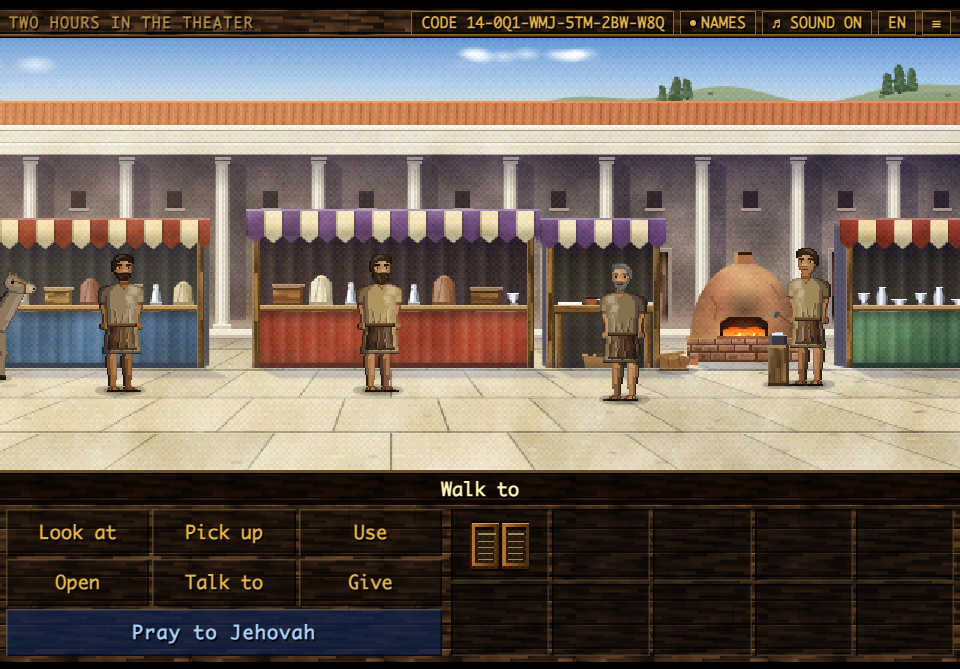
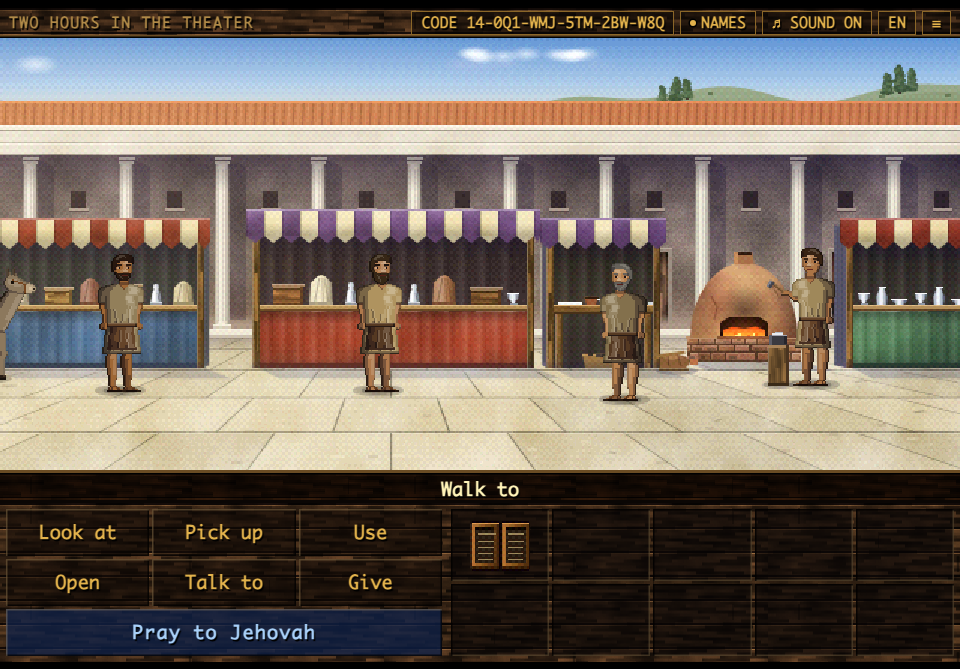
Chapter Fourteen: move the silversmith's arm as he hammers at the anvil

Changed region(s): [[0.7812, 0.3587, 0.875, 0.5979]]

diff --git a/levels/chapter14.js b/levels/chapter14.js
@@ -911,11 +911,13 @@ function columnSeal(g){const[cx,cy,rs]=SEAL.col,K=.55,Z=.83,C='#d6cec0',D='#6661
    block of iron on a short log, where the smith at the kiln works; and in the morning his hammer, held in the hand that hangs over the
    anvil: it rises and falls on the silver in quick strokes with pauses between them, as the sound of it (hammer14) does, though not in
    step with it. The hammer is drawn only while that smith stands at the anvil, facing it. */
-function marketDraw(g,t){const busy=!F.plea,[ax,ay]=ANVIL_Market,s=ACT.smith14c;
+function marketDraw(g,t){const busy=!F.plea,[ax,ay]=ANVIL_Market,s=ACT.smith14c,
+    work=busy&&s&&s.room==='market14'&&Math.abs(s.x-381.5)<1&&Math.abs(s.y-ay)<1&&!s.walk&&facing(s)===-1;
   beast(g,99,114,1,0,0,lightAt('market14',99,114));
   if(busy){const k=.5+.5*Math.sin(t/230)*Math.sin(t/570);pool(g,358,97,10,5,'#ff9040',.16+.14*k)}
   depth(ay-.2,()=>anvilMarket(g,ax,ay,busy));
-  if(busy&&s&&s.room==='market14'&&Math.abs(s.x-380)<1&&Math.abs(s.y-ay)<1&&!s.walk&&facing(s)===-1)depth(ay+.05,()=>hammerMarket(g,s.x,s.y,t))}
+  if(s)s.ges=0;
+  if(work){const[st,hit]=hammerStep(t);s.ges=6+st;depth(ay+.05,()=>hammerMarket(g,s.x,s.y,st,hit))}}
 /* anvilMarket: the anvil at x,y (its foot): a short log on end and on it a block of iron, its face lit, with a small piece of silver on it
    in the morning; in the late afternoon the hammer lies on it. */
 function anvilMarket(g,x,y,busy){oval(g,x,y-.4,5.4,1.4,'rgba(30,26,50,.3)');
@@ -923,17 +925,19 @@ function anvilMarket(g,x,y,busy){oval(g,x,y-.4,5.4,1.4,'rgba(30,26,50,.3)');
   R(g,x-3,y-17,6,3.4,'#3a3a40');R(g,x-3,y-17,6,.7,'#a4a4ae');R(g,x-3,y-17,1.2,3.4,'#5e5e68');R(g,x+2,y-16.3,1,2.7,'#26262c');
   if(busy){R(g,x-1.8,y-17.6,3.6,.6,'#e8ecf0');R(g,x-1.2,y-18,2.6,.4,'#b8c0c8')}
   else{R(g,x-2.8,y-18.6,2.8,1.6,'#44444c');R(g,x-2.8,y-18.6,2.8,.5,'#8a8a96');wood(g,x,y-17.9,5.4,.9,'#7a5a34')}}
-/* hammerMarket: the smith's hammer, in the hand at his side that hangs over the anvil (he stands at x,y, facing left). The handle comes
-   out of the front of his fist toward the anvil, and the head sits at its end with its face toward the anvil and nothing of the handle
-   beyond it: an L, never a cross. Each stroke: down on the silver, up in two steps, down again; a few strokes, then a pause. */
-const HAND_Market=[-6.3,-21.4];
-function hammerMarket(g,x,y,t){const P=1900,c=Math.floor(t/P),n=2+hash(c*7+3)%4,u=t%P,i=Math.floor(u/210),w=u%210;
-  const a=i<n?(w<50?-.45:w<85?0:w<165?.55:0):(u-n*210<140?0:-.45);
-  const hx=x+HAND_Market[0],hy=y+HAND_Market[1],L=5.6,ux=-Math.cos(a),uy=-Math.sin(a),ex=hx+ux*L,ey=hy+uy*L,nx=uy,ny=-ux,f=1.8,b=.6,hw=.85;
+/* hammerStep, hammerMarket: the smith's forearm and hammer over the anvil (he stands at x,y, facing left). His forearm pivots at the elbow
+   through three poses (s.ges 6 down, 7 midway, 8 raised), and the hammer handle comes out of the front of his fist toward the anvil with
+   the head at its end and nothing of the handle beyond it: an L, never a cross. Each stroke: down on the silver, up in two steps, down
+   again; a few strokes, then a pause. */
+const HAMMER_Market=[[-8.6,-22.1,-.64],[-10,-27.7,.18],[-10,-31.2,.62]];
+function hammerStep(t){const P=1900,c=Math.floor(t/P),n=2+hash(c*7+3)%4,u=t%P,i=Math.floor(u/210),w=u%210;
+  return[i<n?(w<50?0:w<85?1:w<165?2:1):(u-n*210<140?1:0),i<n&&w<50]}
+function hammerMarket(g,x,y,st,hit){const[dx,dy,a]=HAMMER_Market[st],
+  hx=x+dx,hy=y+dy,L=5.2,ux=-Math.cos(a),uy=-Math.sin(a),ex=hx+ux*L,ey=hy+uy*L,nx=uy,ny=-ux,f=1.8,b=.6,hw=.85;
   stroke(g,[hx+ux*.3,hy+uy*.3,ex,ey],'#6a4a2c',1);stroke(g,[hx+ux*.3-nx*.3,hy+uy*.3-ny*.3,ex-nx*.3,ey-ny*.3],'#a8845a',.4);
   poly(g,[ex+ux*hw-nx*b,ey+uy*hw-ny*b,ex+ux*hw+nx*f,ey+uy*hw+ny*f,ex-ux*hw+nx*f,ey-uy*hw+ny*f,ex-ux*hw-nx*b,ey-uy*hw-ny*b],'#44444c');
   poly(g,[ex+ux*hw-nx*b,ey+uy*hw-ny*b,ex+ux*hw+nx*f,ey+uy*hw+ny*f,ex+ux*.2+nx*f,ey+uy*.2+ny*f,ex+ux*.2-nx*b,ey+uy*.2-ny*b],'#8a8a96');
-  if(i<n&&w<50)R(g,ex+nx*f-.8,ey+ny*f-.2,1.6,.6,'#ffffff')}
+  if(hit)R(g,ex+nx*f-.8,ey+ny*f-.2,1.6,.6,'#ffffff')}
 /* the tablet in the close view, in its states. A: Aristokles's leaf, B: Philokrates's, each a frame of boxwood round dark wax with the
    writing in the wax; C: the closed tablet, where Philokrates's leaf has been laid on Aristokles's. The two holes of a leaf are in its
    frame along one long edge: Aristokles's along the near edge; Philokrates's along the far edge until his leaf is turned round, and then
@@ -1422,7 +1426,7 @@ const DA=actor('damon14','damon_and_theano','#d8e0b8',110),
   D1=actor('dz14a','disciple','#d8c8e8',116),D2=actor('dz14b','disciple','#f0c8d8',190),D3=actor('dz14c','disciple','#c8e8d8',140);
 const THV={color:'#f0c8e0',pitch:196,name:'Theano',talk:false,get room(){return DA.room},get x(){return DA.x-13*DA.dir},get y(){return DA.y}};
 DA.mate={fig:'theano14',dx:-13,voice:THV,get talk(){return THV.talk}};DA.called='Damon';
-const SMITHS=[['smith14a',150,118,1],['smith14b',318,121,-1],['smith14c',380,116,-1]];
+const SMITHS=[['smith14a',150,118,1],['smith14b',318,121,-1],['smith14c',381.5,116,-1]];
 /* an actor who is drawn in a scene without speaking (the silversmiths): placed like anyone, never a hotspot */
 SMITHS.forEach(([id])=>actor(id,'silversmith','#e0d0b0',110));
 
@@ -1730,7 +1734,7 @@ const TABLETS={
 /* ============ PLACING THE CAST, SETUP ============ */
 const ENT={court14:[186,126,1],market14:[40,124,1],colon14:[120,124,1],seal14:[160,236,1],get lanes14(){return F.plea?[X(HOUSE[0]),Y(78),1]:[X(START[0]),Y(START[1]),START[2]]},door14:[160,124,1]};
 const EVERY=[AR,PK,PH,KL,TI,ER,DE,BR,AP,PO,WA,OL,DY,D1,D2,D3,...SMITHS.map(s=>ACT[s[0]])];
-function place14(room){for(const a of EVERY){a.room=null;a.talk=false;a.seat=0}THV.talk=false;if(setScore&&AU.score!==MUSIC)setScore(MUSIC);
+function place14(room){for(const a of EVERY){a.room=null;a.talk=false;a.seat=0;a.ges=0}THV.talk=false;if(setScore&&AU.score!==MUSIC)setScore(MUSIC);
   /* who is played: Eudoros until the court is found, Damon and Theano in the house until the plea is read, then Paul */
   const want=G.stage14?P:!F.court?RUN:!F.plea?DA:P;
   if(G.pc!==want){if(want===P)G.pc=P;else{G.pc=want;G.inv=G.invs[want.id]||(G.invs[want.id]=[])}}
@@ -1739,7 +1743,7 @@ function place14(room){for(const a of EVERY){a.room=null;a.talk=false;a.seat=0}T
   if(room==='colon14'){const R0=[[BR,206,121,-1],[AP,250,117,-1],[PO,290,124,-1],[WA,334,118,-1],[OL,372,122,-1],[DY,416,119,-1],[AR,60,119,1],[PK,82,123,1]];for(const[a,x,y,d]of R0)place(a,room,x,y,d)}
   if(room==='seal14'){}
   if(room==='door14'){place(PH,room,120,121,1);if(!F.plea){posePaul();if(G.pc===DA&&DA.room!=='door14')place(DA,room,...ENT.door14)}}
-  if(room==='court14'&&F.plea){place(PH,room,96,124,1);place(KL,room,150,128,-1);place(DA,room,220,120,-1);place(D1,room,282,124,-1);place(D2,room,262,112,-1);place(D3,room,300,114,-1)}
+  if(room==='court14'&&F.plea){place(PH,room,96,124,1);place(KL,room,150,128,-1);place(DA,room,220,120,-1);place(D1,room,282,126,-1);place(D2,room,262,112,-1);place(D3,room,300,114,-1)}
   if(room==='market14'&&!F.plea)placeMarket();
   P.party=DA.party=RUN.party=0;swapBtn()}
 function setup14(){P.hs=PAULHS;P.called='Paul';RUN.called='Eudoros';G.sv14=0;G.dl14=0;G.hu14=null;for(const k in courtSaid)delete courtSaid[k];

diff --git a/index.html b/index.html
@@ -969,7 +969,8 @@ function gaitPose(o,ph,amp){const q=gaitOf(o),long=!!o.long,LIFT=long?1:4,c=Math
    of the same stride: a heel landing, the legs passing, the other heel landing.
    bow lowers the head; blink closes the eyes; mv is a sum of MV.
    talk is the mouth: 0 shut, 1 parted, 2 open, 3 wide, 4 round; the last two with the chin a pixel down, and a beard goes down with it.
-   ges is the far hand: 0 down, 1 raised, 2 half raised and open, 3 laid on the chest. A forearm is always bent and slanting: no arm is
+   ges is the far hand: 0 down, 1 raised, 2 half raised and open, 3 laid on the chest; 4 and 5 lead and are led by the hand; 6, 7 and 8
+   swing a hammer (down, midway and raised). A forearm is always bent and slanting: no arm is
    stretched out, and never are both raised (CONTRIBUTING section 3). A figure that bows keeps its head still, and a statue (stone:1)
    never moves: its mouth stays shut and its head where it is. */
 function person(g,x,y,o,dir,fr,talk,bow,ges,blink,mv){
@@ -1188,6 +1189,16 @@ function person(g,x,y,o,dir,fr,talk,bow,ges,blink,mv){
   else if(ges===5&&!bow&&!o.stub){const R=o.longSleeve?T:S,q=18-nw;   /* held out to be led: the forearm slants forward and down from the elbow */
     for(let k=0;k<7;k++){const gx=12-nw+k,gy=yS+12+Math.round(k*.5);px(gx,gy,R[1]);px(gx,gy+1,R[2],1,2);px(gx,gy+3,R[3])}
     px(q,yS+15,S[1],5);px(q,yS+16,S[2],6);px(q+1,yS+17,S[3],5)}
+  else if(ges===6&&!bow&&!o.stub){const R=o.longSleeve?T:S,q=15-nw;   /* hammering, down: the forearm slants forward and down to a closed fist */
+    for(let k=0;k<10;k++){const gx=12-nw+Math.round(k*.4),gy=yS+14+k;px(gx,gy,R[3]);px(gx+1,gy,R[2],2);px(gx+3,gy,R[1])}
+    px(q,yS+24,S[2],5,4);px(q+1,yS+24,S[1],4);px(q,yS+27,S[3],5);px(q,yS+25,S[3],1,2)}
+  else if(ges===7&&!bow&&!o.stub){const R=o.longSleeve?T:S,q=18-nw;   /* hammering, midway: the forearm slants forward from the elbow to a fist */
+    for(let k=0;k<6;k++){const gx=12-nw+k,gy=yS+13+(k>>1);px(gx,gy,k<2?R[2]:R[1]);px(gx,gy+1,R[2],1,2);px(gx,gy+3,R[3])}
+    px(q,yS+15,S[2],5,4);px(q,yS+15,S[1],5);px(q,yS+18,S[3],5);px(q+4,yS+16,S[1],1,2)}
+  else if(ges===8&&!bow&&!o.stub){const R=o.longSleeve?T:S,q=18-nw;   /* hammering, raised: the forearm slants forward and up from the elbow to a fist */
+    for(const[k,y0,n,top]of[[0,13,3,R[3]],[1,13,3,R[3]],[2,13,3,R[2]],[3,12,3,R[2]],[4,9,5,R[1]],[5,9,4,R[1]]]){
+      const gx=12-nw+k,gy=yS+y0;px(gx,gy,top);px(gx,gy+1,R[2],1,n-2);px(gx,gy+n-1,R[3])}
+    px(q,yS+8,S[2],5,4);px(q,yS+8,S[1],5);px(q,yS+11,S[3],5);px(q+4,yS+9,S[1],1,2)}
   else if(ges&&ges!==4&&!bow&&!o.stub){for(let k=0;k<10;k++){const gx=12-nw+Math.round(k*.6),gy=yS+14-k,R=o.longSleeve?T:S;px(gx,gy,R[3]);px(gx+1,gy,R[2],2);px(gx+3,gy,R[1])}
     const q=17-nw;px(q,yS+1,S[2],5,5);px(q,yS+1,S[1],4);px(q,yS+5,S[3],5);px(q+4,yS,S[2],1,3);px(q+1,yS-1,S[1],1,2);px(q+3,yS-1,S[2],1,2);px(q-1,yS+4,S[3])}};
   /* leaning: the figure is painted twice, below the belt as it stands and above it a pixel forward */
@@ -1696,7 +1707,7 @@ const beast=(g,x,y,dir,fr,load,lit)=>figure(g,x,y,lit,'donkey'+dir+fr+load,s=>do
    keeps its head still, and a statue never moves. */
 const BABBLE=[2,1,3,1,0,2,4,1],hash=n=>{n=Math.imul(n^0x9e3779b9,0x85ebca6b);n^=n>>>13;n=Math.imul(n,0xc2b2ae35);return(n^n>>>16)>>>0};
 function moves(o,L,ln,ts){if(L.stone)return[0,0,0,0];
-  let m=0,ges=0,bl=o.bow||blinks(L,ts)?1:0,mv=0;const live=OPTS.mov&&!o.bow&&!o.fr;
+  let m=0,ges=!o.bow&&!o.fr&&o.ges||0,bl=o.bow||blinks(L,ts)?1:0,mv=0;const live=OPTS.mov&&!o.bow&&!o.fr;
   if(ln){const p=ln.plan,t=ts-ln.t0,e=p.ev.find(x=>t>=x.t0&&t<x.t1),c=p.cl.find(c=>t>=c.t0&&t<c.t1+(c.end===','?140:300));if(e)m=e.m;
     if(live){if(e&&e.beat&&e.m>1)mv|=MV.dip;
       if(c){const h=hash(p.h+c.n*7),ask=c.end==='?',cry=c.end==='!';if(ask&&t>c.t1-320)mv=mv&~MV.dip|MV.lift|MV.brow;else if(cry&&t>c.t1-300&&t<c.t1+160)mv|=MV.brow;

diff --git a/tools/playtest-harness.html b/tools/playtest-harness.html
@@ -306,7 +306,7 @@
        every look of every chapter. Each pose is as many pieces as the figure at rest, which is one; and a statue is the same picture whatever it
        is asked to do. cast-talk.png shows the frames: the heads six times enlarged, the figures three times. Look there, in every row, for a chin or
        a beard that has come apart from its face, for a hand that floats, and for crosses (CONTRIBUTING section 3). */
-    {const POSES=[[1,0,0],[2,0,0],[3,0,0],[4,0,0],[0,0,MV.dip],[0,0,MV.lift|MV.brow],[0,0,MV.fwd],[0,0,MV.back|MV.glance],[3,0,MV.dip],[4,0,MV.lift|MV.brow],[3,0,MV.back],[2,1,MV.fwd],[2,2,0],[0,3,0],[3,3,MV.dip],[2,1,MV.lean|MV.fwd],[4,2,MV.lean],[0,4,0],[0,5,0]],
+    {const POSES=[[1,0,0],[2,0,0],[3,0,0],[4,0,0],[0,0,MV.dip],[0,0,MV.lift|MV.brow],[0,0,MV.fwd],[0,0,MV.back|MV.glance],[3,0,MV.dip],[4,0,MV.lift|MV.brow],[3,0,MV.back],[2,1,MV.fwd],[2,2,0],[0,3,0],[3,3,MV.dip],[2,1,MV.lean|MV.fwd],[4,2,MV.lean],[0,4,0],[0,5,0],[0,6,0],[0,7,0],[0,8,0]],
         ids=Object.keys(LOOK).filter(k=>LOOK[k]&&typeof LOOK[k]==='object'),bad=[],apart=[],stone=[],seatBad=[];let n=0;
       for(const id of ids){const o=LOOK[id],at=(t,g,m,d)=>sprite(['pose',id,d<0?'-1':'1',t,g,m].join('|'),q=>person(q,0,0,o,d,0,t,0,g,0,m),d),rest=at(0,0,0,1),r0=parts(rest);if(r0!==1)apart.push(id+' ('+r0+')');
         for(const[t,g,m]of POSES)for(const d of m&MV.lean?[1,-1]:[1]){n++;const c=at(t,g,m,d);if(parts(c)!==r0)bad.push(id+' '+[t,g,m,d]);if(o.stone&&!g&&d>0&&c.toDataURL()!==rest.toDataURL())stone.push(id)}
@@ -2622,9 +2622,11 @@
     mapWalk=async(a,x,y)=>{const M=C().map,D=M.def,cr=D.crowd;D.crowd={};M.crowd.length=0;M.pushT=0;a.pushed=0;M.seeAll=1;const r=walk(a,x,y);for(let i=0;i<4000&&a.walk;i++)await wait(30);await r;M.seeAll=0;D.crowd=cr;await idle()},
     seenTold=new Set(),note=()=>{for(const k in C().told)if(told(k))seenTold.add(k)};
   heard.length=0;(C14?document.querySelector('#overlay [data-ch="14"]'):ov).click();
-  await until(()=>G.ch===14&&G.room==='court14'&&!!A('timothy14').room,9000);halt('open14');
-  await until(()=>G.ch===14&&G.room==='market14',9000);halt('market14');
+  if(stop==='open14'){await until(()=>G.ch===14&&G.room==='court14'&&!!A('timothy14').room,9000);halt('open14')}
+  if(stop==='market14'){for(let i=0;i<6000&&!(G.ch===14&&G.room==='market14');i++)await wait(30);halt('market14')}
   await until(()=>G.ch===14&&G.room==='colon14'&&!G.busy,12000);note();
+  {const s=A('smith14c');s.room='market14';const gs=new Set([0,55,110].map(t=>{ART.market14.draw(cx,t);return s.ges}));s.room=null;s.ges=0;
+    ok(gs.has(6)&&gs.has(7)&&gs.has(8),'the silversmith at the anvil moves his arm through all three hammering poses (6, 7 and 8)')}
   const RUN=A('eudoros14'),DA=A('damon14'),AR=A('arist14'),PK=A('philo14'),PH=A('philon14'),KL=A('klea14');
   ok(G.room==='colon14'&&PC()===RUN&&!P.room&&srt()==='tab14'&&['v21','v22','v23','v24','v25','v26','v27','v28','v29a','v32'].every(k=>seenTold.has(k))&&said('i_will_ask_around'),
     'chapter fourteen opens in the court (Acts 19:21, 22), shows the marketplace while the narrator tells Demetrius (19:23-29), and gives the runner to the player at the colonnade of the theater ['+[G.room,PC().id,srt(),[...seenTold].join(' ')].join()+']');

diff --git a/CONTRIBUTING.md b/CONTRIBUTING.md
@@ -102,7 +102,7 @@ The [Terms of Use](https://www.jw.org/en/terms-of-use/) of jw.org (which cover i
 - Close views follow the finer painterly standard of Chapters Thirteen and Fourteen (such as the sundial and the sealed tablet): fine-grained wood that never competes with incised letters or captions, veined and weathered stone, horizontal papyrus fibers, and soft contact shadows, rather than heavy high-contrast wood overlays or flat fills. A wooden ship's hull is painted in curved plank strakes with staggered butt joints stopping inside each course, never with flat floorboard texture.
 - Inventory icons keep the dark wood panel unchanged; dark cloth, leather and wood items lift their midtones and carry a crisp rim sheen (`IH.roll` sets a top highlight) so they remain legible against the slots even when dimmed.
 - A lamp set in a recessed wall niche casts its light outward and downward from the opening (`nicheLight`), so the arch above occludes upward spill instead of throwing a bright circular halo onto the wall above it. Rain, wet paving and capillary damp along wall bases use the shared weather helper (`shared/weather.js`: short wind-slanted strokes, layered puddles and ripples).
-- Figures move when they speak, and the movement is drawn to the same standard: every frame of a mouth, a chin, a head or a hand is placed by hand in the figure painter, never made by scaling or turning another frame. After adding or changing one, look at all of them enlarged on `cast-talk.png` (`node tools/playtest.mjs cast`), for a chin or a beard that has come apart and for cross shapes; the playtest fails if a pose is in more than one piece. A figure that bows keeps its head still. A statue never moves.
+- Figures move when they speak, and the movement is drawn to the same standard: every frame of a mouth, a chin, a head or a hand is placed by hand in the figure painter, never made by scaling or turning another frame. After adding or changing one, look at all of them enlarged on `cast-talk.png` (`node tools/playtest.mjs cast`), for a chin or a beard that has come apart and for cross shapes; the playtest fails if a pose is in more than one piece. A figure that works with a tool in its hand, such as a hammer at an anvil, moves its arm with the tool through its frames and never leaves the arm hanging still while the tool moves. A figure that bows keeps its head still. A statue never moves.
 - A walk follows the ground and never a clock: the frame comes from the distance covered, so that a foot that stands is not carried along, a step is heard as a foot lands, and a walk begins and ends on a shorter step. Everybody walks at the same speed, so that companions stay together; what differs from one person to the next is the step. Every frame of a stride is worked out by the figure painter for every look; after a change, look at them enlarged on `cast-walk.png` (`node tools/playtest.mjs cast`).
 - A lane map (`shared/lanes.js`) shows a city at a slant from above, as the city maps of those games did: every house stands up from its ground, its front wall of one or two storeys towards us with its door and windows, and its roof above, so that it hides the lane behind it; while whoever is played walks behind a house it fades, so that he is never lost from sight. The people on it are figures of their own, about fourteen room pixels tall, drawn by hand pixel by pixel like the room figures, with a head large enough to tell which way they face and no face to read. Their walk follows the ground as in the rooms. Where the story has people hurry, as a runner with a message and a crowd that rushes to the theater, they run, all at one pace of their own, and whoever walks keeps the walking pace: on the map Paul walks. A crowd comes from somewhere: in by a gate or along a street from beyond the map, or out of the door of a house, which stands open behind him for a moment; nobody appears out of the open ground, and nobody comes out of a house whose shutters are bolted. Where a narrow street is jammed, the people in it stand packed and cannot get through themselves, and nobody passes them. Whatever blocks a way, people, a barred gate or an overturned stall, is named: whoever is played says what it is when he stops before it (`obstacles`, and the `say` of a jam). A click walks along the lanes, shown as a row of dots, by the lanes he knows: those he has seen on the screen where no house hides them, and those round every corner he has come by, so that the way through a maze is found by the player and not by the path-finder. The player may zoom the map with two fingers, the mouse wheel, or + and -. Every pose of the map's figures is one piece (`node tools/playtest.mjs lanesfolk` shows them all enlarged).
 - A movement says something, and what it says must be true. A nod is a yes and a shake of the head is a no: the engine never gives either by itself, so that nobody, and Paul least of all, seems to agree with what he does not agree with. Whoever is spoken to may raise his brows or blink, and no more. A script directs a nod, a shake of the head or a hand on the chest, or the chapter lists the line in its `ACTING` table: only where the line itself plainly says so, and never on a thought.
